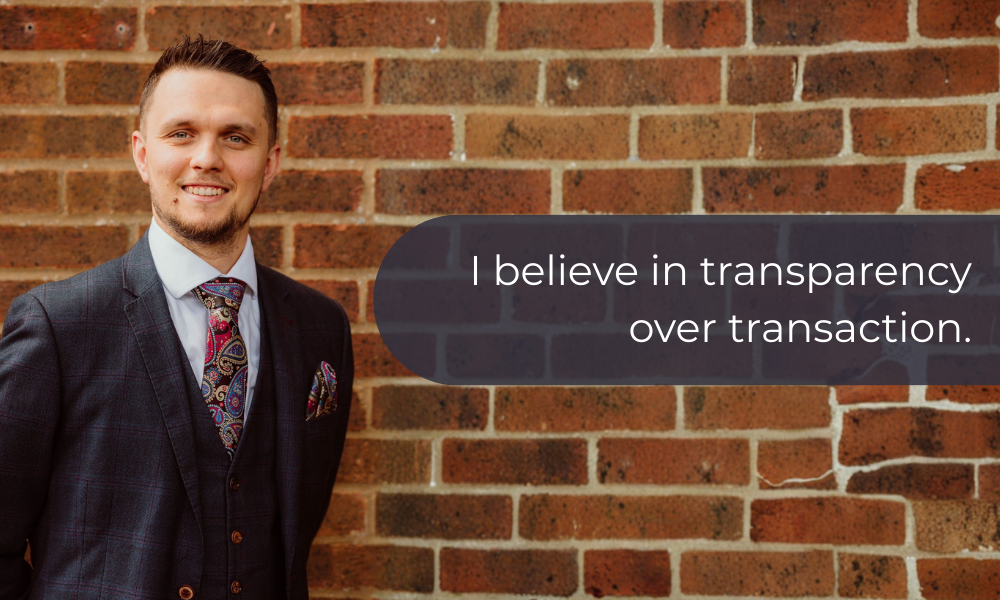
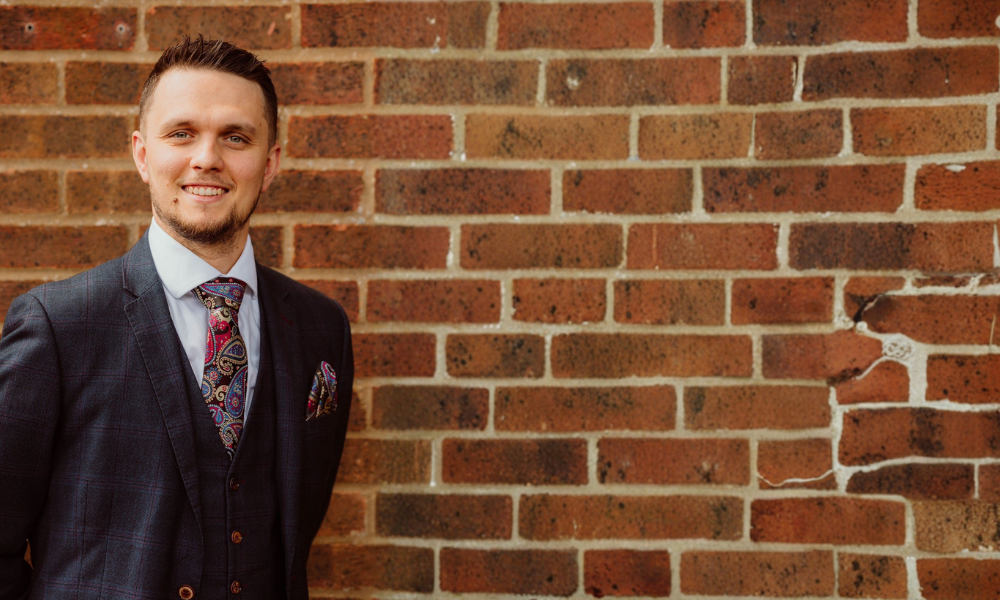
trying a different slideshow

Changed region(s): [[0.372, 0.36, 1.0, 0.66]]

diff --git a/assets/stylesheet.css b/assets/stylesheet.css
@@ -5,30 +5,106 @@ body {
      box-sizing: border-box;
      background-color:#f4f4f9 ;
 }
+
+.carousel {
+  position: relative;
+  width: 600px;
+  height: 400px;
+  overflow: hidden;
+  margin: 0 auto;
+  box-shadow: 0 2px 6px rgba(0,0,0,0.3) ;
+}
+  
+  &:hover
+    .slide:after,
+    .counter,
+    .slide:before {
+      opacity: 1;
+  }
+
+.slide {
+  float: right;
+  position: absolute;
+  z-index: 1;
+  width: 600px;
+  height: 400px;
+  background-color: #eee;
+  text-align: center;
+  transition: opacity 0.4s;
+  opacity: 1;
+}
+
+  &:before {
+    content: attr(annot);
+    display: block;
+    position: absolute;
+    left: 20px;
+    bottom: 20px;
+    color: rgba(255,255,255,0.9);
+    font-size: 14px;
+    font-weight: 300; 
+    z-index: 12;
+    opacity: 0;
+    transition: opacity 0.3s;
+    text-shadow: 0 0 1px black ;
+}
+  
+  &:after {
+    content: attr(slide);
+    display: block;
+    position: absolute;
+    bottom: 0;
+    transition: opacity 0.3s;
+    width: 100%;
+    height: 80px;
+    opacity: 0;
+    background-image: linear-gradient(transparent, rgba(0,0,0,0.5));
+    text-align: left;
+    text-indent: 549px;
+    line-height: 101px;
+    font-size: 13px;
+    color: rgba(255,255,255,0.9);
+    text-shadow: 0 0 1px black;
+  }
+
+.counter {
+  position: absolute;
+  bottom: 20px;
+  right: 1px;
+  height: 20px;
+  width: 60px;
+  z-index: 2;
+  text-align: center;
+  color: #fff;
+  line-height: 21px;
+  font-size: 13px;
+  opacity: 0;
+  transition: opacity 0.3s;
+}
+
 .banner {
-    display: grid;
-    gap: 40px;
-    padding: 100px 50px;
-    margin-top: 20px;
+  top: 0;
+  right: 0;
+  float: right;
+  position: absolute;
+  margin-top:0;
+  z-index: 9;
+  height: 100%;
+  width: 100%;
+  opacity: 0;
+  cursor: pointer;
 }
-.banner-items {
-    position:relative;
-    overflow:hidden;
-    border-radius: 15px;
-    box-shadow: 0px 4px 15px rgba(0, 0, 0, 0.1);
+
+input:checked + .slide {
+  opacity: 1;
+  z-index: 9;
 }
-.slider {
-    display:flex;
-    width:300%;
-    animation: slide 9s infinite;
+
+input:nth-child(1):checked ~ .banner {
+  float: left;
+  z-index: 8;
 }
-.slider img {
-    width:33.33%;
-    height:600px;
-    object-fit: cover;
-}
-@keyframes slide{
-    0%{transform:translateX(0%);}
-    33%{transform:translateX(-33.33%);}
-    60%{transform:translateX(-60.60%);}
+.slide {
+  opacity: 0;
+  transition: opacity 0.3s ease;
 }
